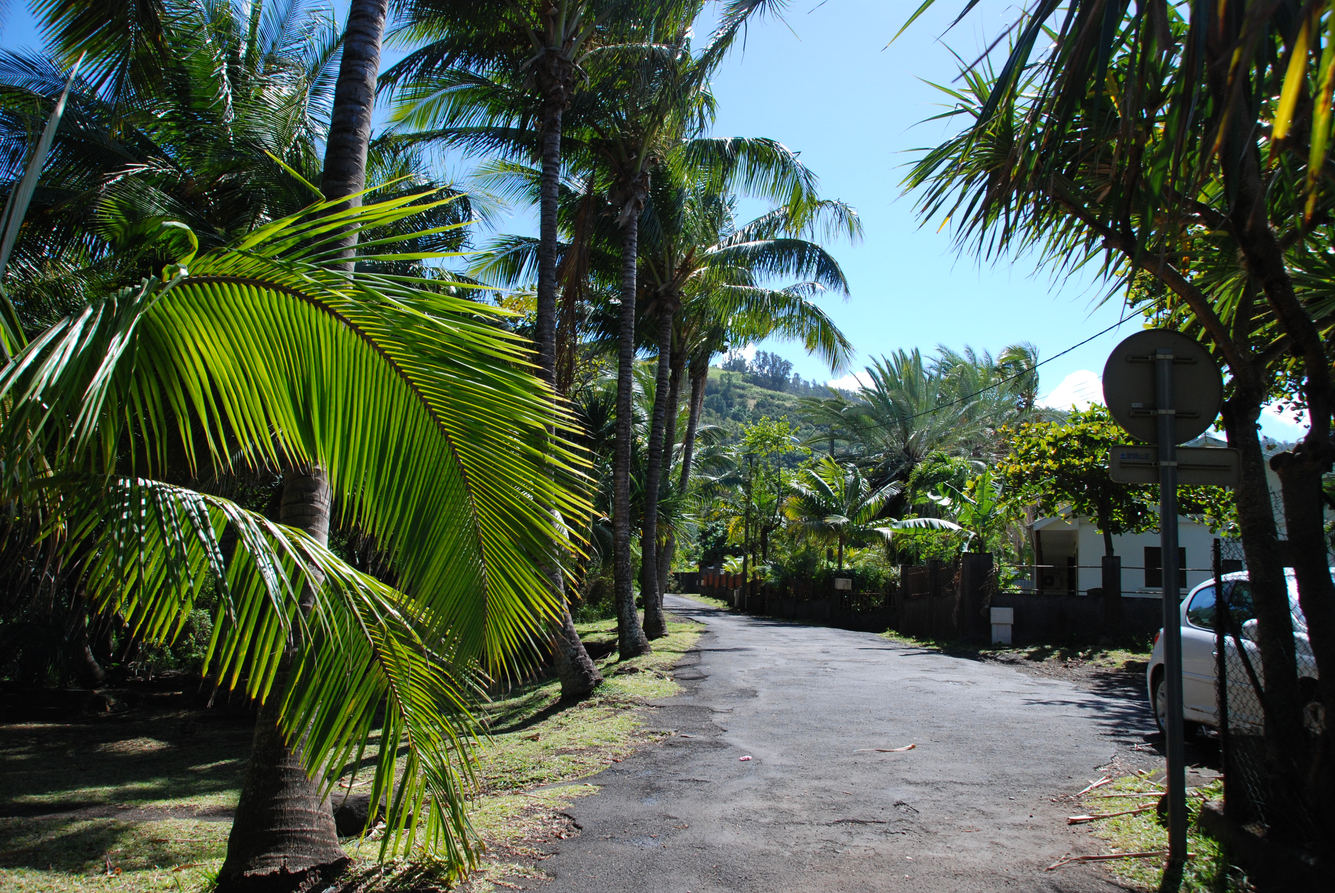
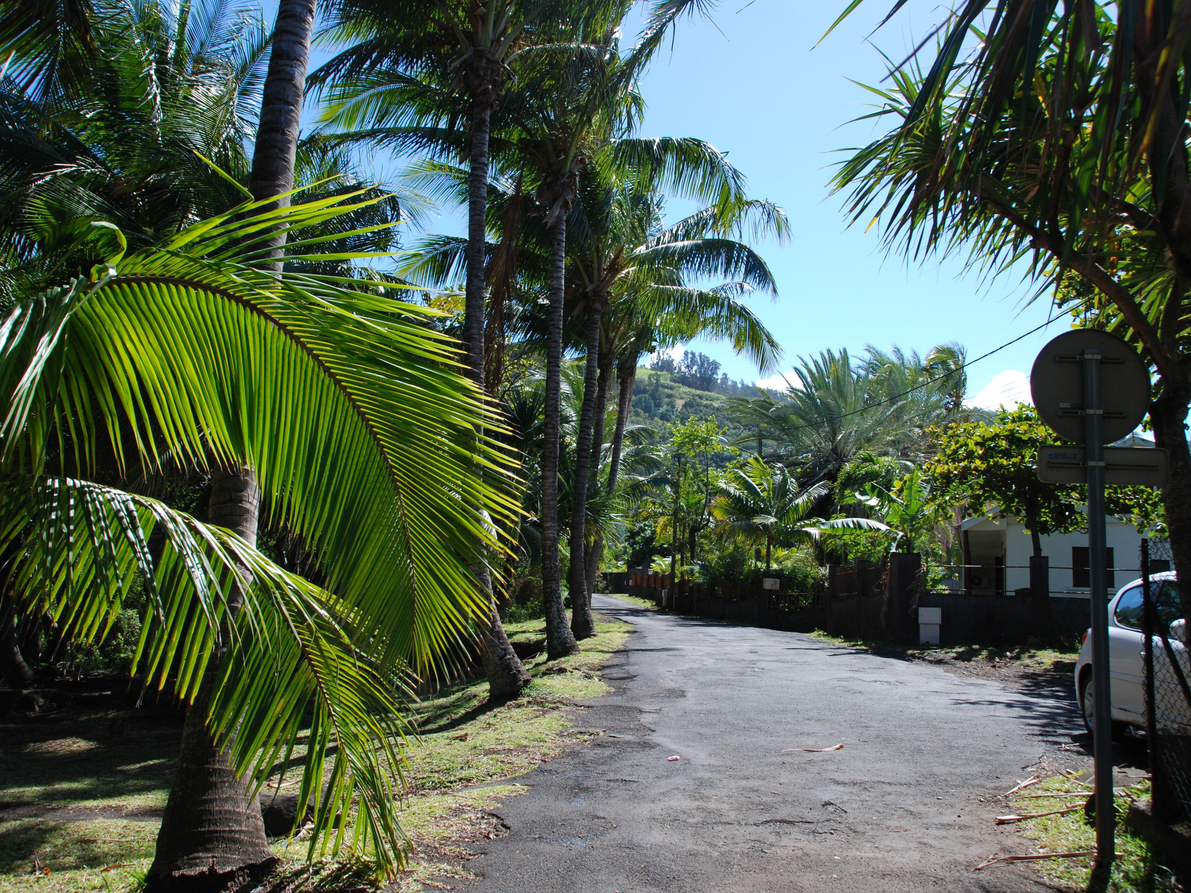
image sizes

diff --git a/_sass/elements.scss b/_sass/elements.scss
@@ -166,7 +166,7 @@ svg:not(:root) {
 }
 
 .lisas-image {
-  height: 200px;
+  height: 220px;
   padding-right: 10px;
   padding-bottom: 10px;
 }
